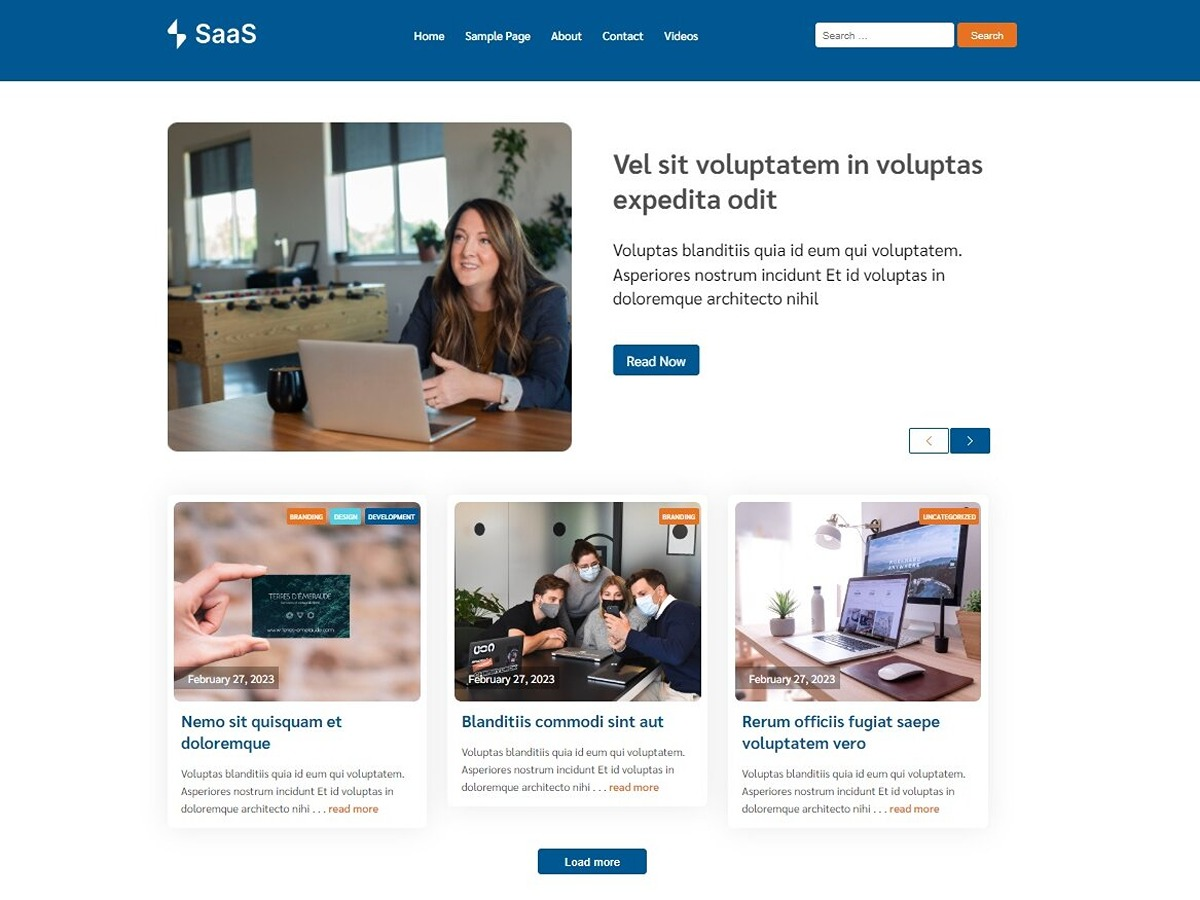
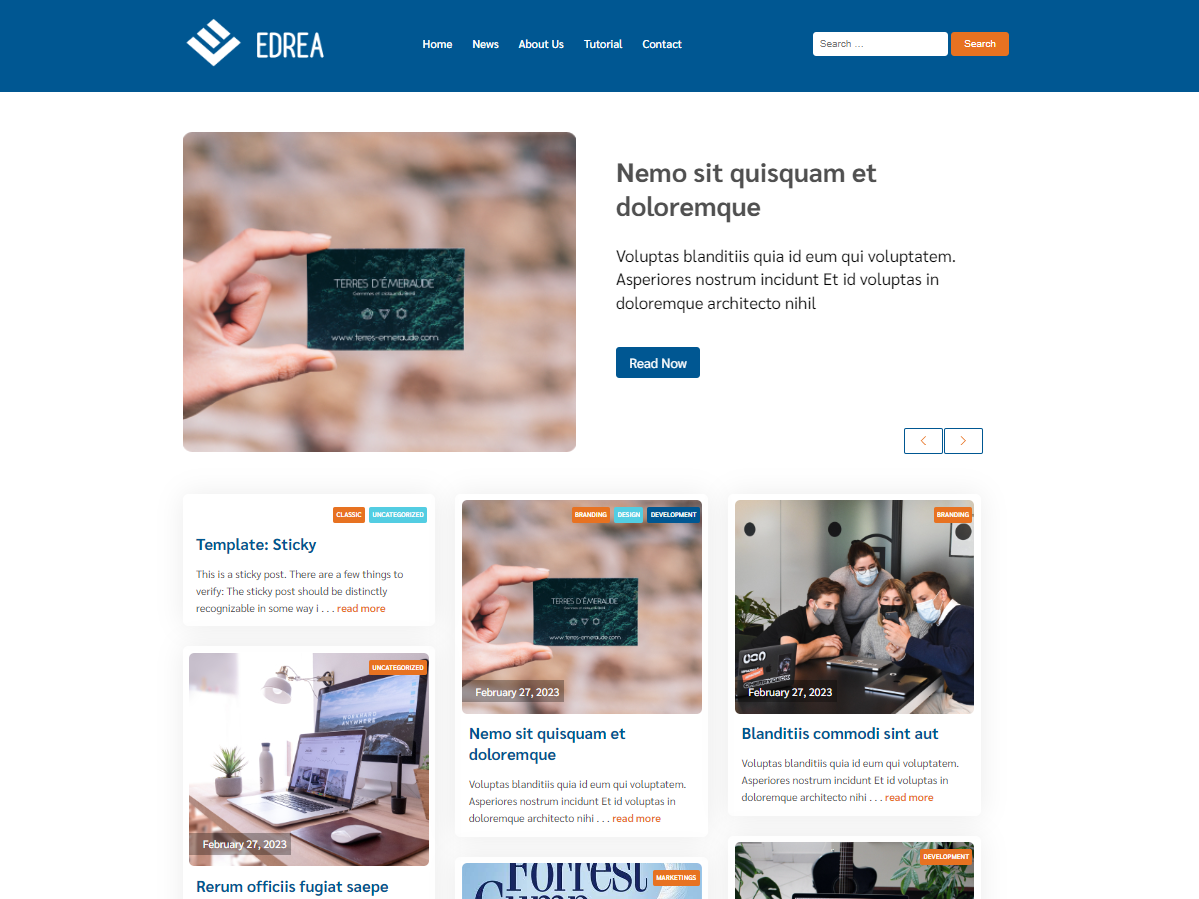
display

diff --git a/dist/main.js b/dist/main.js
@@ -1,12 +1,26 @@
 /******/ (function() { // webpackBootstrap
-/******/ 	var __webpack_modules__ = ({
-
-/***/ "./public/js/main.js":
+/******/ 	// The require scope
+/******/ 	var __webpack_require__ = {};
+/******/ 	
+/************************************************************************/
+/******/ 	/* webpack/runtime/make namespace object */
+/******/ 	!function() {
+/******/ 		// define __esModule on exports
+/******/ 		__webpack_require__.r = function(exports) {
+/******/ 			if(typeof Symbol !== 'undefined' && Symbol.toStringTag) {
+/******/ 				Object.defineProperty(exports, Symbol.toStringTag, { value: 'Module' });
+/******/ 			}
+/******/ 			Object.defineProperty(exports, '__esModule', { value: true });
+/******/ 		};
+/******/ 	}();
+/******/ 	
+/************************************************************************/
+var __webpack_exports__ = {};
+// This entry need to be wrapped in an IIFE because it need to be isolated against other entry modules.
+!function() {
 /*!***************************!*\
   !*** ./public/js/main.js ***!
   \***************************/
-/***/ (function() {
-
 jQuery(document).ready(function ($) {
   $('#edrea-ajax-wrapper').imagesLoaded(function () {
     $('#edrea-ajax-wrapper').masonry({
@@ -73,29 +87,17 @@ jQuery(document).ready(function ($) {
     return true;
   });
 });
-
-/***/ }),
-
-/***/ "./public/scss/main.scss":
+}();
+// This entry need to be wrapped in an IIFE because it need to be in strict mode.
+!function() {
+"use strict";
 /*!*******************************!*\
   !*** ./public/scss/main.scss ***!
   \*******************************/
-/***/ (function() {
+__webpack_require__.r(__webpack_exports__);
+// extracted by mini-css-extract-plugin
 
-throw new Error("Module build failed (from ./node_modules/mini-css-extract-plugin/dist/loader.js):\nHookWebpackError: Module build failed (from ./node_modules/sass-loader/dist/cjs.js):\nSassError: unmatched \"}\".\n    ╷\n118 │ }\r\n    │ ^\n    ╵\n  public/scss/components/_header.scss 118:1  @import\n  public/scss/main.scss 24:9                 root stylesheet\n    at tryRunOrWebpackError (/home/leon/wordpress/excercise/edrea/wp-content/themes/edrea/node_modules/webpack/lib/HookWebpackError.js:88:9)\n    at __webpack_require_module__ (/home/leon/wordpress/excercise/edrea/wp-content/themes/edrea/node_modules/webpack/lib/Compilation.js:5058:12)\n    at __webpack_require__ (/home/leon/wordpress/excercise/edrea/wp-content/themes/edrea/node_modules/webpack/lib/Compilation.js:5015:18)\n    at /home/leon/wordpress/excercise/edrea/wp-content/themes/edrea/node_modules/webpack/lib/Compilation.js:5086:20\n    at symbolIterator (/home/leon/wordpress/excercise/edrea/wp-content/themes/edrea/node_modules/neo-async/async.js:3485:9)\n    at done (/home/leon/wordpress/excercise/edrea/wp-content/themes/edrea/node_modules/neo-async/async.js:3527:9)\n    at Hook.eval [as callAsync] (eval at create (/home/leon/wordpress/excercise/edrea/wp-content/themes/edrea/node_modules/tapable/lib/HookCodeFactory.js:33:10), <anonymous>:15:1)\n    at Hook.CALL_ASYNC_DELEGATE [as _callAsync] (/home/leon/wordpress/excercise/edrea/wp-content/themes/edrea/node_modules/tapable/lib/Hook.js:18:14)\n    at /home/leon/wordpress/excercise/edrea/wp-content/themes/edrea/node_modules/webpack/lib/Compilation.js:4993:43\n    at symbolIterator (/home/leon/wordpress/excercise/edrea/wp-content/themes/edrea/node_modules/neo-async/async.js:3482:9)\n    at timesSync (/home/leon/wordpress/excercise/edrea/wp-content/themes/edrea/node_modules/neo-async/async.js:2297:7)\n    at Object.eachLimit (/home/leon/wordpress/excercise/edrea/wp-content/themes/edrea/node_modules/neo-async/async.js:3463:5)\n    at /home/leon/wordpress/excercise/edrea/wp-content/themes/edrea/node_modules/webpack/lib/Compilation.js:4958:16\n    at symbolIterator (/home/leon/wordpress/excercise/edrea/wp-content/themes/edrea/node_modules/neo-async/async.js:3485:9)\n    at timesSync (/home/leon/wordpress/excercise/edrea/wp-content/themes/edrea/node_modules/neo-async/async.js:2297:7)\n    at Object.eachLimit (/home/leon/wordpress/excercise/edrea/wp-content/themes/edrea/node_modules/neo-async/async.js:3463:5)\n    at /home/leon/wordpress/excercise/edrea/wp-content/themes/edrea/node_modules/webpack/lib/Compilation.js:4926:15\n    at symbolIterator (/home/leon/wordpress/excercise/edrea/wp-content/themes/edrea/node_modules/neo-async/async.js:3485:9)\n    at done (/home/leon/wordpress/excercise/edrea/wp-content/themes/edrea/node_modules/neo-async/async.js:3527:9)\n    at /home/leon/wordpress/excercise/edrea/wp-content/themes/edrea/node_modules/webpack/lib/Compilation.js:4873:8\n    at /home/leon/wordpress/excercise/edrea/wp-content/themes/edrea/node_modules/webpack/lib/Compilation.js:3352:32\n    at /home/leon/wordpress/excercise/edrea/wp-content/themes/edrea/node_modules/webpack/lib/HookWebpackError.js:68:3\n    at Hook.eval [as callAsync] (eval at create (/home/leon/wordpress/excercise/edrea/wp-content/themes/edrea/node_modules/tapable/lib/HookCodeFactory.js:33:10), <anonymous>:15:1)\n    at Cache.store (/home/leon/wordpress/excercise/edrea/wp-content/themes/edrea/node_modules/webpack/lib/Cache.js:107:20)\n    at ItemCacheFacade.store (/home/leon/wordpress/excercise/edrea/wp-content/themes/edrea/node_modules/webpack/lib/CacheFacade.js:137:15)\n    at /home/leon/wordpress/excercise/edrea/wp-content/themes/edrea/node_modules/webpack/lib/Compilation.js:3352:11\n    at /home/leon/wordpress/excercise/edrea/wp-content/themes/edrea/node_modules/webpack/lib/Cache.js:93:5\n    at Hook.eval [as callAsync] (eval at create (/home/leon/wordpress/excercise/edrea/wp-content/themes/edrea/node_modules/tapable/lib/HookCodeFactory.js:33:10), <anonymous>:16:1)\n    at Cache.get (/home/leon/wordpress/excercise/edrea/wp-content/themes/edrea/node_modules/webpack/lib/Cache.js:75:18)\n    at ItemCacheFacade.get (/home/leon/wordpress/excercise/edrea/wp-content/themes/edrea/node_modules/webpack/lib/CacheFacade.js:111:15)\n    at Compilation._codeGenerationModule (/home/leon/wordpress/excercise/edrea/wp-content/themes/edrea/node_modules/webpack/lib/Compilation.js:3322:9)\n    at codeGen (/home/leon/wordpress/excercise/edrea/wp-content/themes/edrea/node_modules/webpack/lib/Compilation.js:4861:11)\n    at symbolIterator (/home/leon/wordpress/excercise/edrea/wp-content/themes/edrea/node_modules/neo-async/async.js:3482:9)\n    at timesSync (/home/leon/wordpress/excercise/edrea/wp-content/themes/edrea/node_modules/neo-async/async.js:2297:7)\n    at Object.eachLimit (/home/leon/wordpress/excercise/edrea/wp-content/themes/edrea/node_modules/neo-async/async.js:3463:5)\n    at /home/leon/wordpress/excercise/edrea/wp-content/themes/edrea/node_modules/webpack/lib/Compilation.js:4891:14\n    at processQueue (/home/leon/wordpress/excercise/edrea/wp-content/themes/edrea/node_modules/webpack/lib/util/processAsyncTree.js:55:4)\n    at process.processTicksAndRejections (node:internal/process/task_queues:77:11)\n-- inner error --\nError: Module build failed (from ./node_modules/sass-loader/dist/cjs.js):\nSassError: unmatched \"}\".\n    ╷\n118 │ }\r\n    │ ^\n    ╵\n  public/scss/components/_header.scss 118:1  @import\n  public/scss/main.scss 24:9                 root stylesheet\n    at Object.<anonymous> (/home/leon/wordpress/excercise/edrea/wp-content/themes/edrea/node_modules/css-loader/dist/cjs.js??ruleSet[1].rules[4].use[1]!/home/leon/wordpress/excercise/edrea/wp-content/themes/edrea/node_modules/postcss-loader/dist/cjs.js??ruleSet[1].rules[4].use[2]!/home/leon/wordpress/excercise/edrea/wp-content/themes/edrea/node_modules/sass-loader/dist/cjs.js??ruleSet[1].rules[4].use[3]!/home/leon/wordpress/excercise/edrea/wp-content/themes/edrea/public/scss/main.scss:1:7)\n    at /home/leon/wordpress/excercise/edrea/wp-content/themes/edrea/node_modules/webpack/lib/javascript/JavascriptModulesPlugin.js:441:11\n    at Hook.eval [as call] (eval at create (/home/leon/wordpress/excercise/edrea/wp-content/themes/edrea/node_modules/tapable/lib/HookCodeFactory.js:19:10), <anonymous>:7:1)\n    at Hook.CALL_DELEGATE [as _call] (/home/leon/wordpress/excercise/edrea/wp-content/themes/edrea/node_modules/tapable/lib/Hook.js:14:14)\n    at /home/leon/wordpress/excercise/edrea/wp-content/themes/edrea/node_modules/webpack/lib/Compilation.js:5060:39\n    at tryRunOrWebpackError (/home/leon/wordpress/excercise/edrea/wp-content/themes/edrea/node_modules/webpack/lib/HookWebpackError.js:83:7)\n    at __webpack_require_module__ (/home/leon/wordpress/excercise/edrea/wp-content/themes/edrea/node_modules/webpack/lib/Compilation.js:5058:12)\n    at __webpack_require__ (/home/leon/wordpress/excercise/edrea/wp-content/themes/edrea/node_modules/webpack/lib/Compilation.js:5015:18)\n    at /home/leon/wordpress/excercise/edrea/wp-content/themes/edrea/node_modules/webpack/lib/Compilation.js:5086:20\n    at symbolIterator (/home/leon/wordpress/excercise/edrea/wp-content/themes/edrea/node_modules/neo-async/async.js:3485:9)\n    at done (/home/leon/wordpress/excercise/edrea/wp-content/themes/edrea/node_modules/neo-async/async.js:3527:9)\n    at Hook.eval [as callAsync] (eval at create (/home/leon/wordpress/excercise/edrea/wp-content/themes/edrea/node_modules/tapable/lib/HookCodeFactory.js:33:10), <anonymous>:15:1)\n    at Hook.CALL_ASYNC_DELEGATE [as _callAsync] (/home/leon/wordpress/excercise/edrea/wp-content/themes/edrea/node_modules/tapable/lib/Hook.js:18:14)\n    at /home/leon/wordpress/excercise/edrea/wp-content/themes/edrea/node_modules/webpack/lib/Compilation.js:4993:43\n    at symbolIterator (/home/leon/wordpress/excercise/edrea/wp-content/themes/edrea/node_modules/neo-async/async.js:3482:9)\n    at timesSync (/home/leon/wordpress/excercise/edrea/wp-content/themes/edrea/node_modules/neo-async/async.js:2297:7)\n    at Object.eachLimit (/home/leon/wordpress/excercise/edrea/wp-content/themes/edrea/node_modules/neo-async/async.js:3463:5)\n    at /home/leon/wordpress/excercise/edrea/wp-content/themes/edrea/node_modules/webpack/lib/Compilation.js:4958:16\n    at symbolIterator (/home/leon/wordpress/excercise/edrea/wp-content/themes/edrea/node_modules/neo-async/async.js:3485:9)\n    at timesSync (/home/leon/wordpress/excercise/edrea/wp-content/themes/edrea/node_modules/neo-async/async.js:2297:7)\n    at Object.eachLimit (/home/leon/wordpress/excercise/edrea/wp-content/themes/edrea/node_modules/neo-async/async.js:3463:5)\n    at /home/leon/wordpress/excercise/edrea/wp-content/themes/edrea/node_modules/webpack/lib/Compilation.js:4926:15\n    at symbolIterator (/home/leon/wordpress/excercise/edrea/wp-content/themes/edrea/node_modules/neo-async/async.js:3485:9)\n    at done (/home/leon/wordpress/excercise/edrea/wp-content/themes/edrea/node_modules/neo-async/async.js:3527:9)\n    at /home/leon/wordpress/excercise/edrea/wp-content/themes/edrea/node_modules/webpack/lib/Compilation.js:4873:8\n    at /home/leon/wordpress/excercise/edrea/wp-content/themes/edrea/node_modules/webpack/lib/Compilation.js:3352:32\n    at /home/leon/wordpress/excercise/edrea/wp-content/themes/edrea/node_modules/webpack/lib/HookWebpackError.js:68:3\n    at Hook.eval [as callAsync] (eval at create (/home/leon/wordpress/excercise/edrea/wp-content/themes/edrea/node_modules/tapable/lib/HookCodeFactory.js:33:10), <anonymous>:15:1)\n    at Cache.store (/home/leon/wordpress/excercise/edrea/wp-content/themes/edrea/node_modules/webpack/lib/Cache.js:107:20)\n    at ItemCacheFacade.store (/home/leon/wordpress/excercise/edrea/wp-content/themes/edrea/node_modules/webpack/lib/CacheFacade.js:137:15)\n    at /home/leon/wordpress/excercise/edrea/wp-content/themes/edrea/node_modules/webpack/lib/Compilation.js:3352:11\n    at /home/leon/wordpress/excercise/edrea/wp-content/themes/edrea/node_modules/webpack/lib/Cache.js:93:5\n    at Hook.eval [as callAsync] (eval at create (/home/leon/wordpress/excercise/edrea/wp-content/themes/edrea/node_modules/tapable/lib/HookCodeFactory.js:33:10), <anonymous>:16:1)\n    at Cache.get (/home/leon/wordpress/excercise/edrea/wp-content/themes/edrea/node_modules/webpack/lib/Cache.js:75:18)\n    at ItemCacheFacade.get (/home/leon/wordpress/excercise/edrea/wp-content/themes/edrea/node_modules/webpack/lib/CacheFacade.js:111:15)\n    at Compilation._codeGenerationModule (/home/leon/wordpress/excercise/edrea/wp-content/themes/edrea/node_modules/webpack/lib/Compilation.js:3322:9)\n    at codeGen (/home/leon/wordpress/excercise/edrea/wp-content/themes/edrea/node_modules/webpack/lib/Compilation.js:4861:11)\n    at symbolIterator (/home/leon/wordpress/excercise/edrea/wp-content/themes/edrea/node_modules/neo-async/async.js:3482:9)\n    at timesSync (/home/leon/wordpress/excercise/edrea/wp-content/themes/edrea/node_modules/neo-async/async.js:2297:7)\n    at Object.eachLimit (/home/leon/wordpress/excercise/edrea/wp-content/themes/edrea/node_modules/neo-async/async.js:3463:5)\n    at /home/leon/wordpress/excercise/edrea/wp-content/themes/edrea/node_modules/webpack/lib/Compilation.js:4891:14\n    at processQueue (/home/leon/wordpress/excercise/edrea/wp-content/themes/edrea/node_modules/webpack/lib/util/processAsyncTree.js:55:4)\n    at process.processTicksAndRejections (node:internal/process/task_queues:77:11)\n\nGenerated code for /home/leon/wordpress/excercise/edrea/wp-content/themes/edrea/node_modules/css-loader/dist/cjs.js??ruleSet[1].rules[4].use[1]!/home/leon/wordpress/excercise/edrea/wp-content/themes/edrea/node_modules/postcss-loader/dist/cjs.js??ruleSet[1].rules[4].use[2]!/home/leon/wordpress/excercise/edrea/wp-content/themes/edrea/node_modules/sass-loader/dist/cjs.js??ruleSet[1].rules[4].use[3]!/home/leon/wordpress/excercise/edrea/wp-content/themes/edrea/public/scss/main.scss\n1 | throw new Error(\"Module build failed (from ./node_modules/sass-loader/dist/cjs.js):\\nSassError: unmatched \\\"}\\\".\\n    ╷\\n118 │ }\\r\\n    │ ^\\n    ╵\\n  public/scss/components/_header.scss 118:1  @import\\n  public/scss/main.scss 24:9                 root stylesheet\");");
-
-/***/ })
-
-/******/ 	});
-/************************************************************************/
-/******/ 	
-/******/ 	// startup
-/******/ 	// Load entry module and return exports
-/******/ 	__webpack_modules__["./public/js/main.js"]();
-/******/ 	// This entry module doesn't tell about it's top-level declarations so it can't be inlined
-/******/ 	var __webpack_exports__ = {};
-/******/ 	__webpack_modules__["./public/scss/main.scss"]();
-/******/ 	
+}();
 /******/ })()
 ;
 //# sourceMappingURL=main.js.map

diff --git a/dist/main.css b/dist/main.css
@@ -139,9 +139,6 @@ figure {
   line-height: 1.6;
   color: rgb(80, 80, 80);
 }
-.edrea-main img {
-  max-width: 100%;
-}
 
 @media (max-width: 991.98px) {
   h1 {
@@ -173,6 +170,9 @@ figure {
   h3 {
     font-size: 21px;
     font-weight: 600;
+  }
+  img {
+    max-width: 100%;
   }
 }
 .edrea-archive-blog {
@@ -439,40 +439,6 @@ figure {
   font-weight: 600;
 }
 
-@media (max-width: 991.98px) {
-  .edrea-single-post__wrapper {
-    flex-direction: column;
-  }
-  .edrea-single-post__wrapper--left, .edrea-single-post__wrapper--right {
-    width: 100%;
-  }
-  body .edrea-single-post__title {
-    font-size: 32px;
-  }
-}
-@media (max-width: 767.98px) {
-  .edrea-single-post__meta .post-date p {
-    font-size: 13px;
-  }
-  .edrea-single-post__meta--author .edrea-author-name {
-    font-size: 13px;
-  }
-}
-@media (max-width: 575.98px) {
-  body .edrea-single-post__title {
-    font-size: 30px;
-  }
-}
-.edrea-page-not-found {
-  padding: 80px 0;
-  text-align: center;
-}
-.edrea-page-not-found a {
-  text-decoration: none;
-  color: #e77221;
-  font-weight: 600;
-}
-
 .edrea-header {
   padding: 30px 0;
   background-color: #005792;
@@ -498,6 +464,7 @@ figure {
 }
 .edrea-header__wrapper .site-branding img {
   max-height: 80px;
+  max-width: 70%;
 }
 .edrea-header__wrapper .main-navigation {
   width: calc(46% - 20px);
@@ -601,7 +568,10 @@ figure {
     font-size: 14px;
   }
   .edrea-header__wrapper .site-branding {
-    width: calc(20% - 20px);
+    width: calc(30% - 20px);
+  }
+  .edrea-header__wrapper .site-branding img {
+    width: 100% !important;
   }
   .edrea-header__wrapper .site-search {
     width: calc(35% - 20px);

diff --git a/public/scss/components/_header.scss b/public/scss/components/_header.scss
@@ -20,8 +20,8 @@
             }
             img {
                 max-height: 80px;
+                max-width: 70%;
             }
-        }
         } 
         .main-navigation {
             width: calc(46% - 20px);
@@ -130,7 +130,10 @@
         font-size: 14px;
     }
     .edrea-header__wrapper .site-branding {
-        width: calc( 20% - 20px );
+        width: calc( 30% - 20px );
+    }
+    .edrea-header__wrapper .site-branding img {
+        width: 100% !important;
     }
     .edrea-header__wrapper .site-search {
         width: calc( 35% - 20px );

diff --git a/dist/main.asset.php b/dist/main.asset.php
@@ -1,1 +1,1 @@
-<?php return array('dependencies' => array(), 'version' => '4042d2b8c98becdb2bb5');
+<?php return array('dependencies' => array(), 'version' => 'e7328af7c26ee19cdc63');

diff --git a/README.md b/README.md
@@ -26,6 +26,10 @@ The sliders will appear on the top of your blog-news list (Not in single-page). 
 
 This button will appear on your index page that show the article list, the load more button will append items (total items will be loaded depends how many page per post you set on your dashboard).
 
+# Layout
+
+Index page with masonry layout and side bar in single page, will be one column if sidebar not activated.
+
 # Features suggestion
 
 You can request features as you want. But im not promise I will adding it :D. And, of course I will improve this themes to make it more better.
